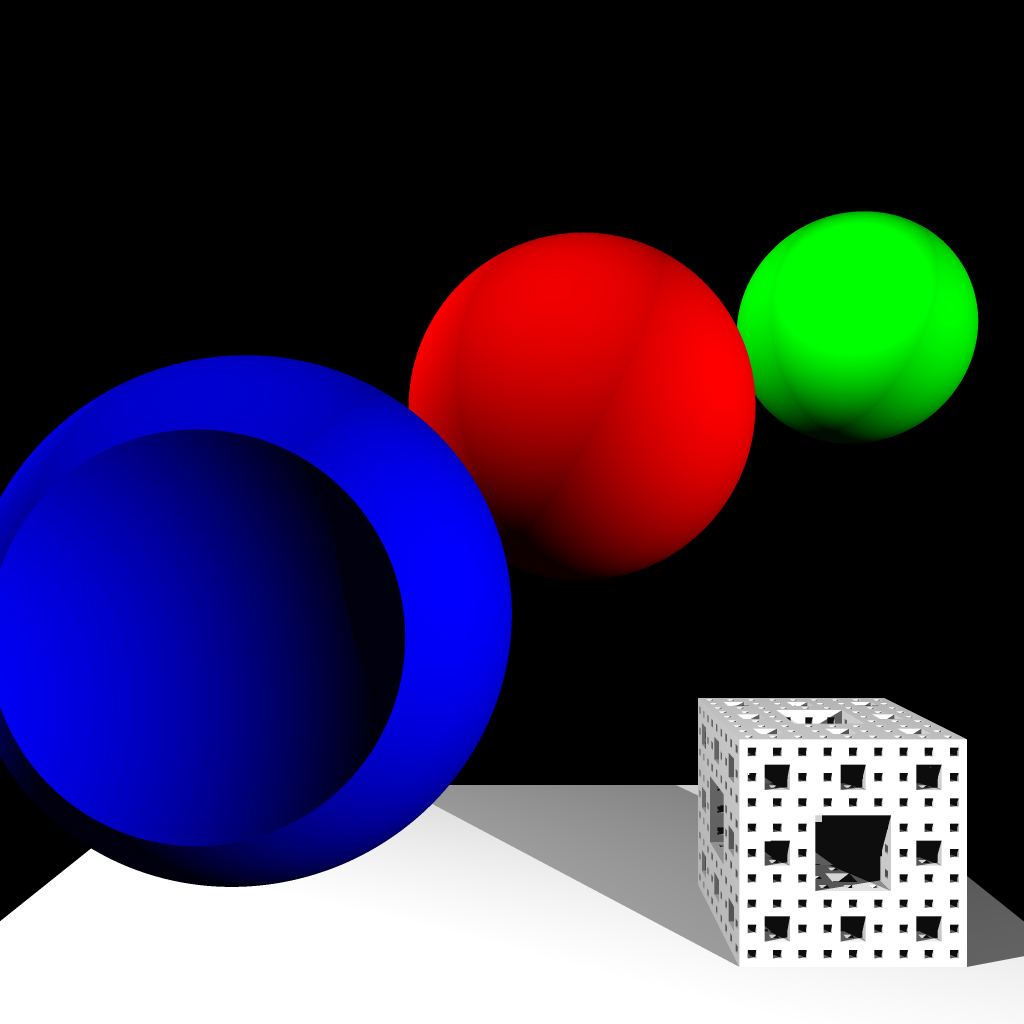
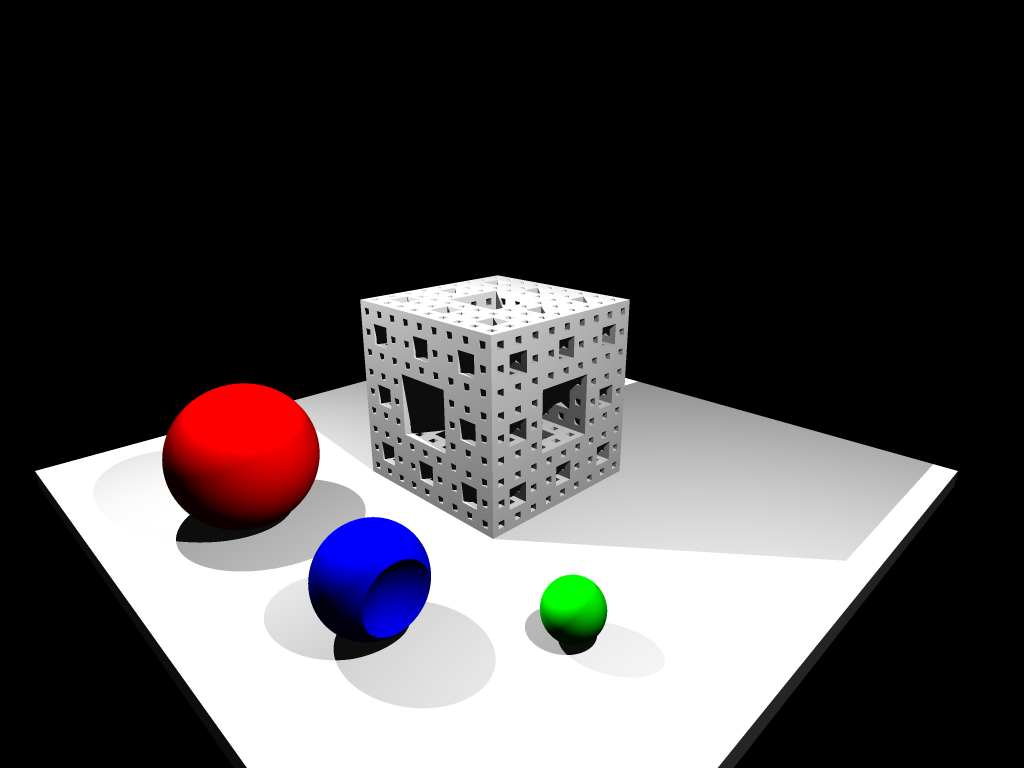
Camera
** Camera:
Added: Camera object
Added: Camera position, direction, up and FOV components
Added: Camera transform and FOV <update> function
Added: Transform and Focal uniforms
Added: Camera commands

* CPU + GPU:
Added: Camera apply transform <view> function
Changed: Raymarch function for transform and FOV support

** General:
Added: Matrix4x4 GPU packing
Changed: Scene objects file setup
Updated: LiteMath submodule
Updated: README runtime information

diff --git a/source/scene.cpp b/source/scene.cpp
@@ -19,17 +19,15 @@ using namespace LiteMath;
 namespace scene {
     Body::List *tree;
     std::vector<Object::Light*> lights;
+    Object::Camera *camera;
 }
 
 // Calculate the color produced by ray
-float3 scene::raymarch(float3 ray) {
-    float3 position = float3(0.0f);
+float3 scene::raymarch(float3 position, float3 ray) {
     Body::Surface surface = scene::surface(position, ray);
-
     float3 normal = normalize(scene::grad(position));
     float light = scene::lighting(position, normal);
     float3 color = light * surface.color;
-
     return color;
 }
 
@@ -93,6 +91,7 @@ float3 scene::grad(float3 p) {
 // Load scene objects from path
 void scene::load(const char *path) {
     scene::tree = new Body::List();
+    scene::camera = new Object::Camera();
 
     std::ifstream file(path);
     std::string line;
@@ -105,40 +104,47 @@ void scene::load(const char *path) {
 
         Body::Base *obj;
         bool isBody = true;
+
         if (cmd == "Sphere") {
             float3 position;
             float radius;
             input >> position.x >> position.y >> position.z >> radius;
             obj = new Body::Sphere(position, radius, color);
-        } else if (cmd == "Box") {
+        }
+        else if (cmd == "Box") {
             float3 position, size;
             input >> position.x >> position.y >> position.z;
             input >> size.x >> size.y >> size.z;
             obj = new Body::Box(position, size, color);
-        } else if (cmd == "Bounds") {
+        }
+        else if (cmd == "Bounds") {
             float size;
             input >> size;
             Body::Box *box = new Body::Box(float3(0.0f), float3(size), float3(0.0f));
             Body::List *list = new Body::List(Body::Mode::COMPLEMENT);
             list->append(box);
             obj = list;
-        } else if (cmd == "Cross") {
+        }
+        else if (cmd == "Cross") {
             float3 position, size;
             input >> position.x >> position.y >> position.z;
             input >> size.x >> size.y >> size.z;
             obj = new Body::Cross(position, size, color);
-        } else if (cmd == "DeathStar") {
+        }
+        else if (cmd == "DeathStar") {
             float3 position;
             float radius;
             input >> position.x >> position.y >> position.z >> radius;
             obj = Body::DeathStar(position, radius, color);
-        } else if (cmd == "MengerSponge") {
+        }
+        else if (cmd == "MengerSponge") {
             float3 position;
             float size;
             int iterations;
             input >> position.x >> position.y >> position.z >> size >> iterations;
             obj = Body::MengerSponge(position, size, iterations, color);
-        } else isBody = false;
+        }
+        else isBody = false;
 
         if (isBody) {
             scene::tree->append(obj);
@@ -150,9 +156,35 @@ void scene::load(const char *path) {
             input >> position.x >> position.y >> position.z;
             Object::Light *light = new Object::Light(position);
             lights.push_back(light);
+        }
+        else if (cmd == "Camera") {
+            std::string cameraCmd;
+            input >> cameraCmd;
 
-        } else if (cmd == "Color") {
+            float3 vector;
+            float scalar;
+            if (cameraCmd == "Position") {
+                input >> vector.x >> vector.y >> vector.z;
+                scene::camera->position = vector;
+            }
+            else if (cameraCmd == "Direction") {
+                input >> vector.x >> vector.y >> vector.z;
+                scene::camera->direction = vector;
+            }
+            else if (cameraCmd == "Up") {
+                input >> vector.x >> vector.y >> vector.z;
+                scene::camera->up = vector;
+            }
+            else if (cameraCmd == "FOV") {
+                input >> scalar;
+                scene::camera->FOV = scalar;
+            }
+        }
+        else if (cmd == "Color") {
             input >> color.x >> color.y >> color.z;
         }
     }
+
+    // Update camera transform
+    scene::camera->update();
 }

diff --git a/source/render.cpp b/source/render.cpp
@@ -66,6 +66,7 @@ namespace render {
 
         static void packbody(::Body::Base *in, Body *out);
         static void packlight(::Object::Light *in, Body *out);
+        static void packmatrix(float4x4 in, float out[16]);
         static void genscene(
             Body bodies[constants::gpu::bodyTypes * constants::gpu::bodyMax],
             Node tree[constants::gpu::listEntries * constants::gpu::listMax]);
@@ -81,8 +82,10 @@ namespace render {
 void render::pixel(Image2D<float4> &image, int2 coord) {
     static const float AR = float(constants::width) / constants::height;
 
-    float2 s1 = float2( -AR/2, (float) 1/2 ); // screen top left corner
-    float2 s2 = float2(  AR/2, (float)-1/2 ); // screen bottom right corner
+    float w = scene::camera->focal;
+    float h = w / AR;
+    float2 s1 = float2( -w/2,  h/2 ); // screen top left corner
+    float2 s2 = float2(  w/2, -h/2 ); // screen bottom right corner
 
     float2 psize = float2( (float) 1 / constants::width, (float) 1 / constants::height ); // pixel size
 
@@ -94,15 +97,20 @@ void render::pixel(Image2D<float4> &image, int2 coord) {
     float2 p1       = float2( lerp( s1.x, s2.x, uv1.x), lerp( s1.y, s2.y, uv1.y) ); // pixel top left corner
     float2 p2       = float2( lerp( s1.x, s2.x, uv2.x), lerp( s1.y, s2.y, uv2.y) ); // pixel bottom right corner
 
+    float3 position = float3(0.0f);
+    position = scene::camera->view(position);
+
     float3 total = float3(0.0f);
     for (int i = 0; i < constants::SSAA::kernel; i++) {
         for (int j = 0; j < constants::SSAA::kernel; j++) {
             float2 uv = float2( i + 1, j + 1 ) / constants::SSAA::kernel;
             float x = lerp( p1.x, p2.x, uv.x);
             float y = lerp( p1.y, p2.y, uv.y);
-            float z = 1.0f;
+            float z = -1.0f;
             float3 ray = normalize( float3(x, y, z) );
-            float3 color = scene::raymarch(ray);
+            ray = scene::camera->view(ray, false);
+
+            float3 color = scene::raymarch(position, ray);
             total += color;
         }
     }
@@ -270,6 +278,13 @@ void render::shader::packlight(::Object::Light *in, render::shader::Body *out) {
     std::memcpy(out->data + 4, in->color.M, sizeof(in->color.M));
 }
 
+void render::shader::packmatrix(float4x4 in, float out[16]) {
+    std::memcpy(out, in.m_col[0].M, sizeof(in.m_col[0].M));
+    std::memcpy(out + 4, in.m_col[1].M, sizeof(in.m_col[1].M));
+    std::memcpy(out + 8, in.m_col[2].M, sizeof(in.m_col[2].M));
+    std::memcpy(out + 12, in.m_col[3].M, sizeof(in.m_col[3].M));
+}
+
 void render::shader::genlights(render::shader::Body lights[constants::gpu::lights]) {
     for (uint ID = 0; ID < scene::lights.size(); ID++) {
         render::shader::packlight(scene::lights[ID], lights + ID);
@@ -378,6 +393,15 @@ void render::pushuniforms(void) {
     // Light
     uniform = glGetUniformLocation(render::shader::program, "totalLights");
     glUniform1ui(uniform, scene::lights.size());
+
+    // Camera
+    float transform[16];
+    render::shader::packmatrix(scene::camera->transform, transform);
+    uniform = glGetUniformLocation(render::shader::program, "transform");
+    glUniformMatrix4fv(uniform, 1, GL_FALSE, transform);
+
+    uniform = glGetUniformLocation(render::shader::program, "focal");
+    glUniform1f(uniform, scene::camera->focal);
 }
 
 // Setup GLFW and GLAD context

diff --git a/source/object.cpp b/source/object.cpp
@@ -13,4 +13,31 @@ namespace Object {
     /// Light ///
     Light::Light(float3 position, float3 color) :
         Base(Type::LIGHT), position(position), color(color) {}
+
+    /// Camera ///
+    Camera::Camera(float3 position, float3 direction, float3 up, float FOV) :
+        Base(Type::CAMERA), position(position), direction(direction), up(up), FOV(FOV) {
+        this->update();
+    }
+
+    void Camera::update() {
+        // Transform
+        float3 right = normalize(cross(this->direction, this->up));
+        float3 up = normalize(cross(right, this->direction));
+        float3 forward = normalize(this->direction);
+
+        transform.set_col(0, to_float4(right, 0.0f));
+        transform.set_col(1, to_float4(up, 0.0f));
+        transform.set_col(2, to_float4(-forward, 0.0f));
+        transform.set_col(3, to_float4(this->position, 1.0f));
+
+        // Focal
+        this->focal = 2.0f * tan(this->FOV * DEG_TO_RAD / 2);
+    }
+
+    float3 Camera::view(float3 vector, bool offset) {
+        float4 extended = to_float4(vector, 0.0f);
+        if (offset) extended.w = 1.0f;
+        return to_float3(this->transform * extended);
+    }
 }

diff --git a/source/include/object.h b/source/include/object.h
@@ -8,7 +8,8 @@ using namespace LiteMath;
 namespace Object {
     enum class Type {
         BODY,
-        LIGHT
+        LIGHT,
+        CAMERA
     };
 
     // Base class for all objects
@@ -21,5 +22,21 @@ namespace Object {
         float3 position;
         float3 color;
         Light(float3 position, float3 color = float3(1.0f));
+    };
+
+    struct Camera : Base {
+        float3 position;
+        float3 direction;
+        float3 up;
+        float FOV;
+
+        float4x4 transform;
+        float focal;
+        Camera(float3 position = float3(0.0f),
+            float3 direction = float3(0.0f, 0.0f, -1.0f),
+            float3 up = float3(0.0f, 1.0f, 0.0f),
+            float FOV = 90);
+        void update(void);
+        float3 view(float3 vector, bool offset = true);
     };
 }

diff --git a/source/include/scene.h b/source/include/scene.h
@@ -11,8 +11,9 @@ using namespace LiteMath;
 namespace scene {
     extern Body::List *tree;
     extern std::vector<Object::Light*> lights;
+    extern Object::Camera *camera;
     Body::Surface surface(float3 &position, float3 ray);
-    float3 raymarch(float3 ray);
+    float3 raymarch(float3 position, float3 ray);
     bool shadow(Object::Light *light, float3 position, float3 normal);
     float lighting(float3 position, float3 normal);
     Body::Surface SDF(float3 position);

diff --git a/source/include/constants.h b/source/include/constants.h
@@ -9,7 +9,7 @@ namespace constants {
 
     // Note: width and height must be divisible by gpu::groupUnits
     const uint width            = 1024;             // Window width
-    const uint height           = 1024;             // Window height
+    const uint height           = 768;             // Window height
 
     const int iterations        = 1000;             // Raymarcing iterations
     const float gamma           = 1.0f;             // gamma correction

diff --git a/source/body.cpp b/source/body.cpp
@@ -161,7 +161,7 @@ namespace Body {
         Sphere *sphere = new Sphere(position, radius, color);
         result->append(sphere);
 
-        float3 diffposition = float3(position.x, position.y, position.z - 1.5f * radius);
+        float3 diffposition = float3(position.x + 1.5f * radius, position.y, position.z);
         Sphere *diff = new Sphere(diffposition, radius, color);
         result->append(diff);
 

diff --git a/README.md b/README.md
@@ -79,9 +79,9 @@ GPU: NVIDIA GeForce GTX 1060
 ...Compiling shaders
 ...Generating buffers
 ...Rendering
-Render with CPU (1 thread):     3226.6s
-Render with OpenMP (4 threads): 819.268s
-Render with GPU:                280.258s
-Copy to GPU:                    0.0053246s
-Render + Copy on GPU:           280.263s
+Render with CPU (1 thread):     2152.27s
+Render with OpenMP (4 threads): 492.166s
+Render with GPU:                185.161s
+Copy to GPU:                    0.0064819s
+Render + Copy on GPU:           185.168s
 ```
